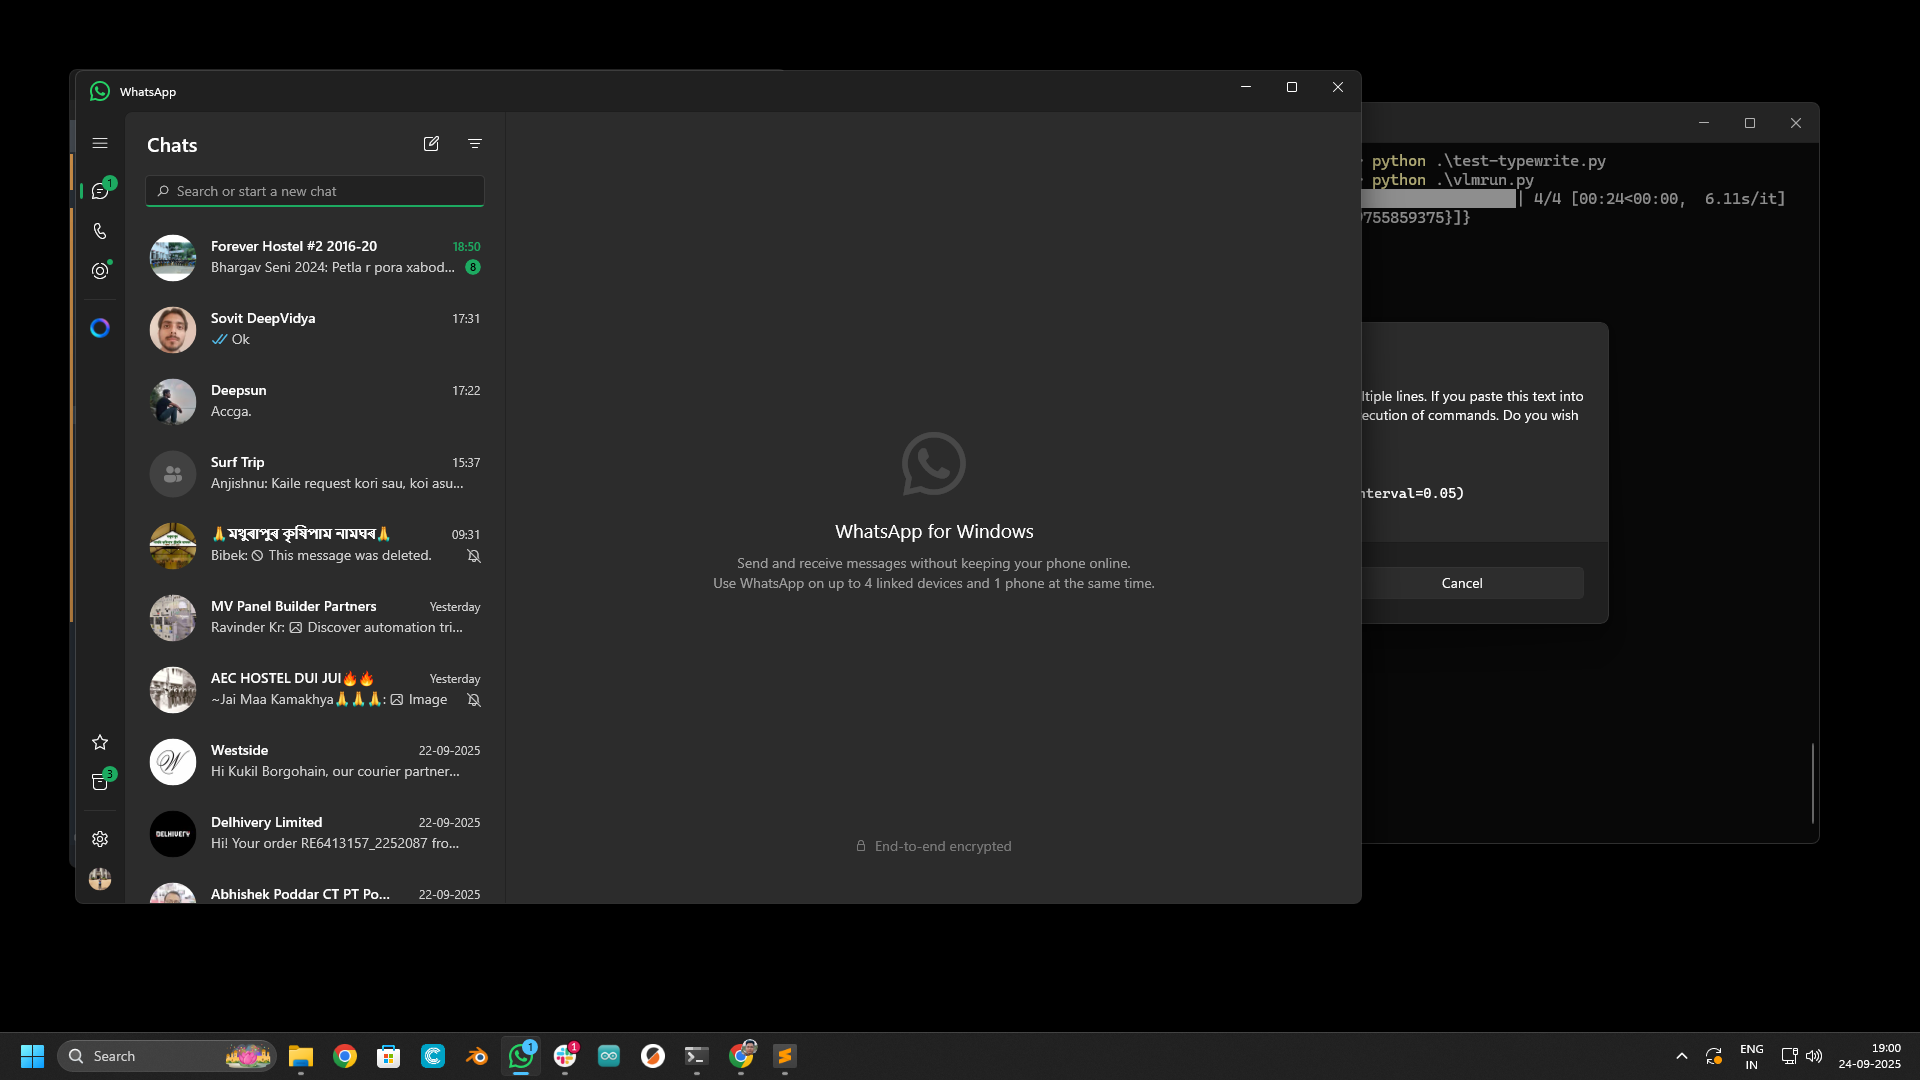
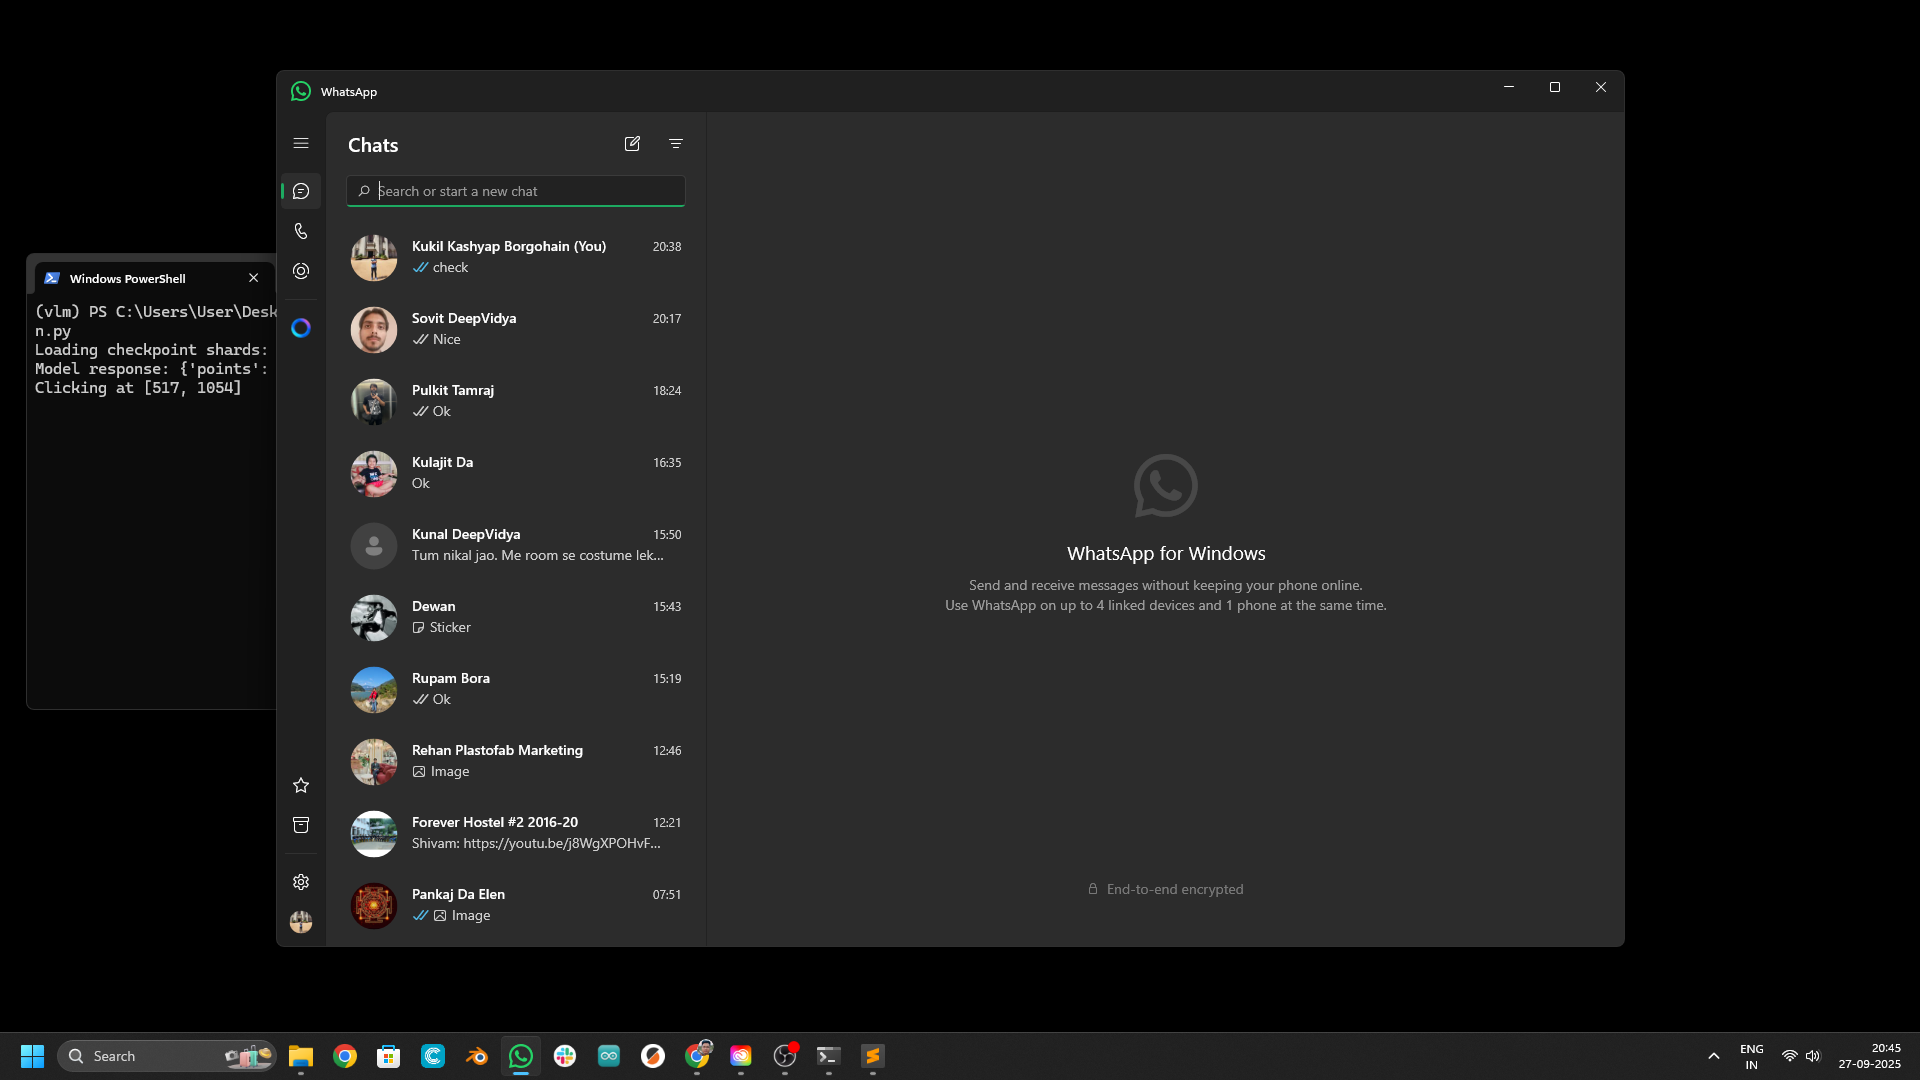
tests

diff --git a/vlmrun.py b/vlmrun.py
@@ -51,22 +51,17 @@ def grab_click(query, model):
 def main():
     model = load_model("moondream/moondream3-preview")
 
-    grab_click("WhatsApp Icon", model)
-    grab_click("Sovit DeepVidya", model)
+    # grab_click("WhatsApp Icon", model)
+    # grab_click("Kukil Kashyap Borgohain", model)
 
     screenshot = ImageGrab.grab()
 
-    capt = model.query(screenshot, "What do you think about Sovit's profile pic?")
+    capt = model.query(screenshot, "Has the model completed 10 epochs, if yes check accuracy?")
     ans = capt["answer"]
     print(ans)
 
-    greet_text = "Hi this is my first attempt on Agents!"
-
-    pyautogui.typewrite(greet_text, interval=0.05)
-    pyautogui.press("enter")
-
-    pyautogui.typewrite(ans, interval=0.05)
-    pyautogui.press("enter")
+    # pyautogui.typewrite(ans, interval=0.05)
+    # pyautogui.press("enter")
 
 
 if __name__ == '__main__':
